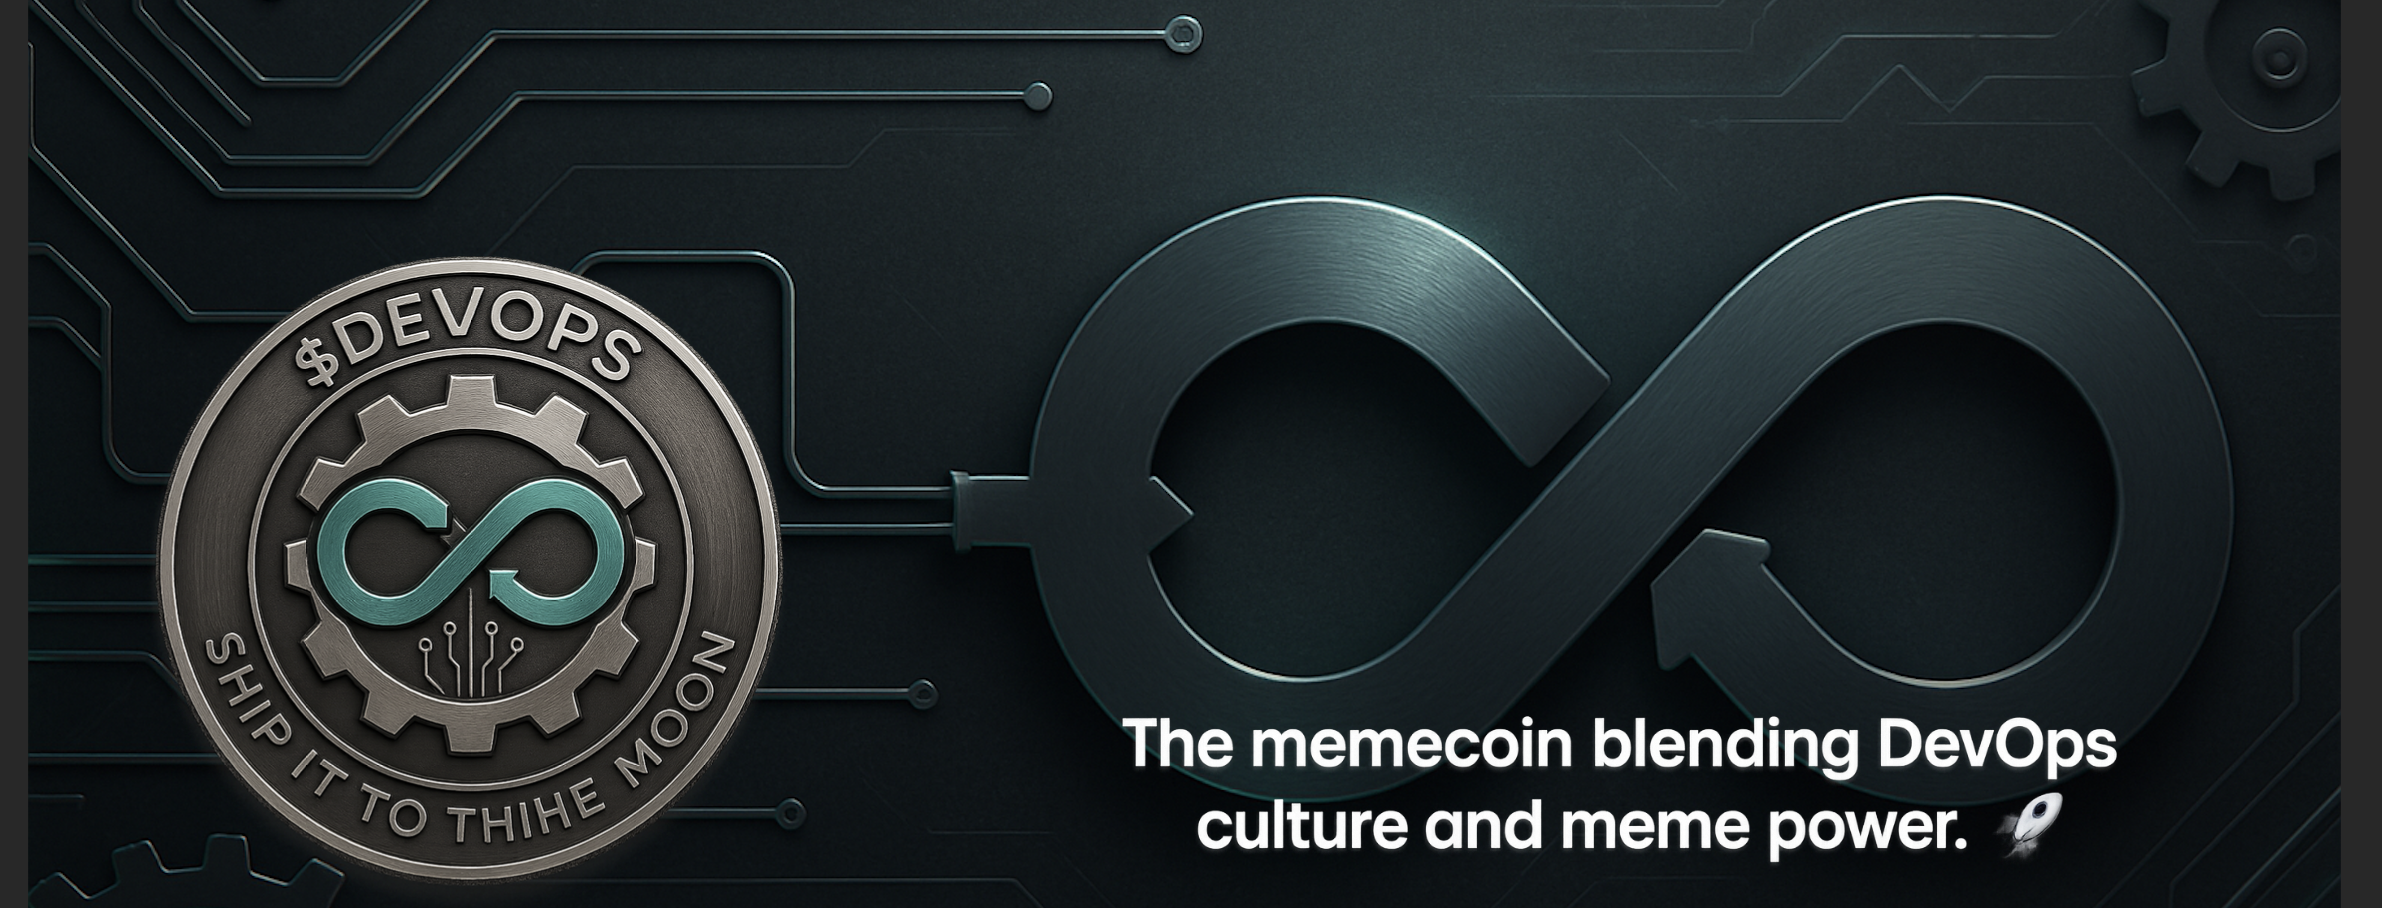
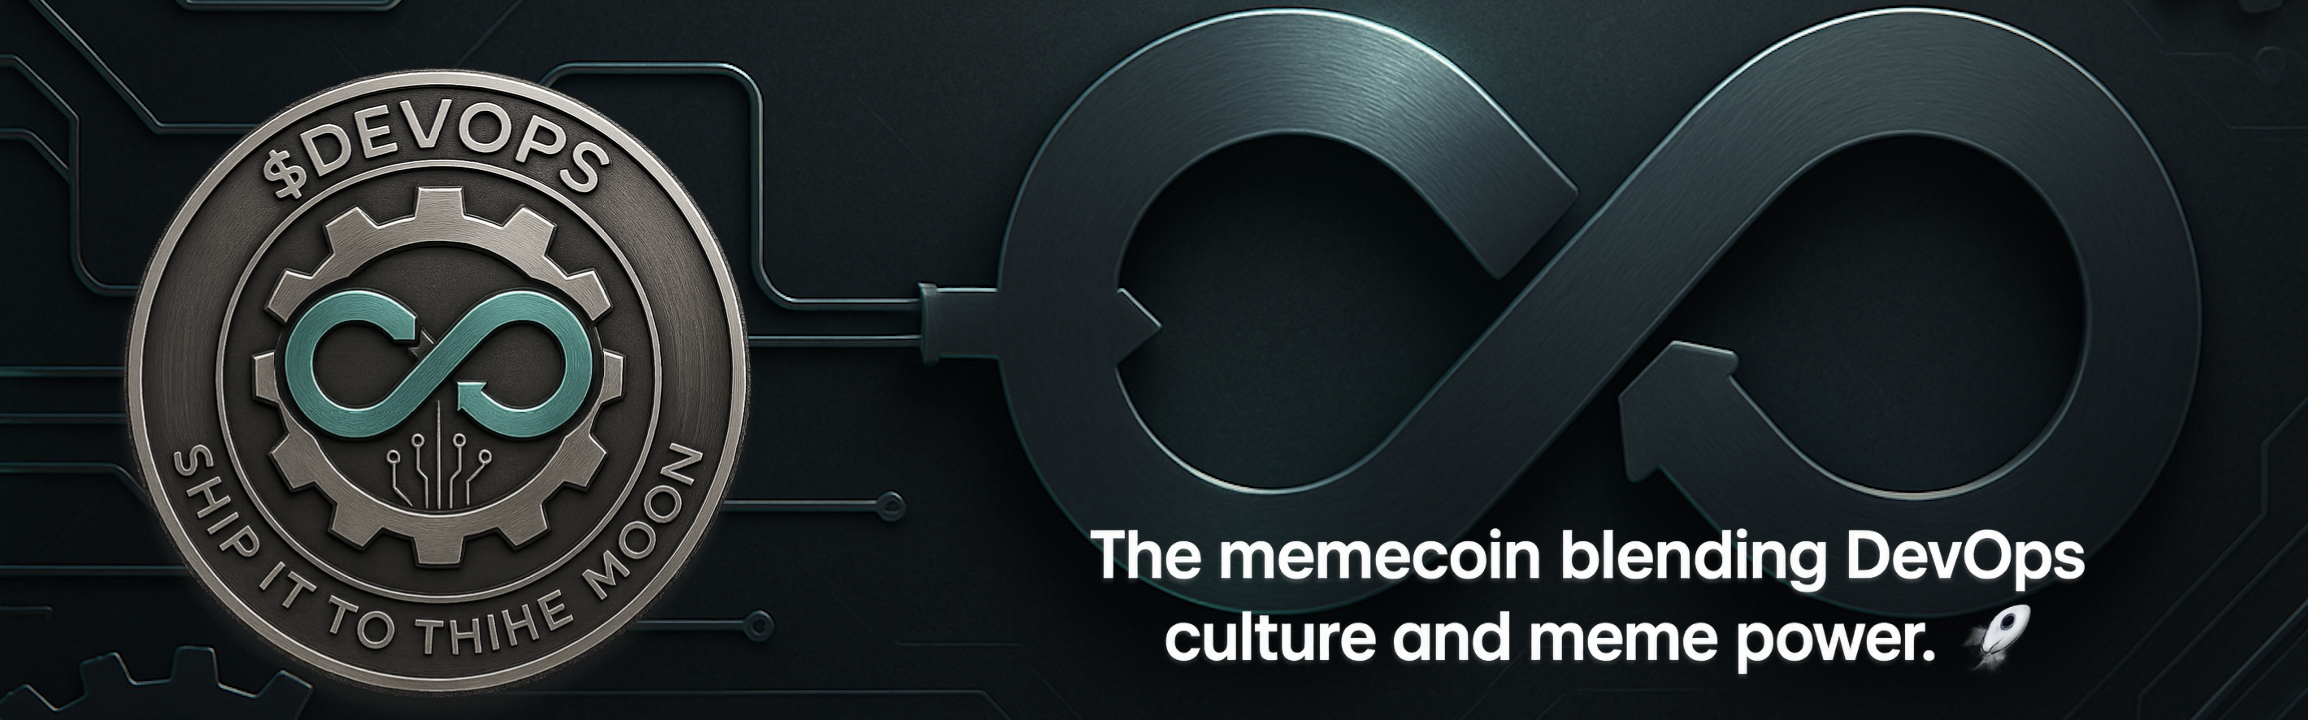
updates

diff --git a/index.html b/index.html
@@ -12,20 +12,23 @@
   <div id="header-placeholder"></div>
   <script src="assets/load-header.js"></script>
 
-  <div class="tagline">
-    🧠 Dev culture meets degen. 🚀 Pipelines meet moon missions.
-  </div>
 
-  <div class="coming-soon">
-    Coming soon!
-  </div>
+  <div class="container">
+    <div class="tagline">
+      🧠 Dev culture meets degen. 🚀 Pipelines meet moon missions.
+    </div>
 
-  <div class="recruit">
-    We're looking for <strong>DevOps engineers and developers</strong> who not only know their way around APIs, automation, and rapid innovation—but also have real experience in the memecoin space.
-    <br />
-    If you understand both pipelines and meme culture, and want to help build something the degen world hasn’t seen before, we want to hear from you!
-    <br />
-    Reach out on X and help us create something unique.
+    <div class="coming-soon">
+      Coming soon!
+    </div>
+
+    <div class="recruit">
+      We're looking for <strong>DevOps engineers and developers</strong> who not only know their way around APIs, automation, and rapid innovation—but also have real experience in the memecoin space.
+      <br />
+      If you understand both pipelines and meme culture, and want to help build something the degen world hasn’t seen before, we want to hear from you!
+      <br />
+      Reach out on X and help us create something unique.
+    </div>
   </div>
 
 <!--

diff --git a/assets/style.css b/assets/style.css
@@ -14,8 +14,7 @@ body {
   width: 100%;
   height: auto;
   display: block;
-  max-height: 40vh; /* limits to 40% of viewport height */
-  object-fit: cover;
+  /* Removed max-height and object-fit to allow full width scaling */
 }
 
 /* === TYPOGRAPHY === */
